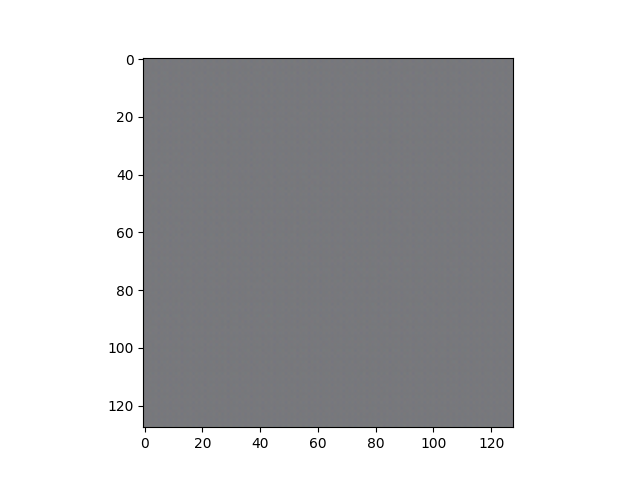
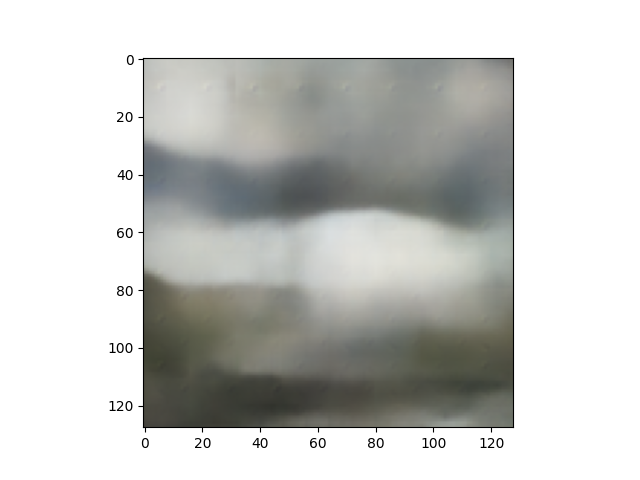
generated images, bad kl div

diff --git a/source/generate_images.py b/source/generate_images.py
@@ -30,27 +30,27 @@ plt.imshow(data[0][0].permute(1,2,0))
 plt.savefig(os.path.join(images_path,'input_image.png'))
 plt.close()
 
-output_image=model(data[0][0].unsqueeze(0),data[1][1].unsqueeze(0))[0]
-plt.imshow(output_image[0].permute(1,2,0).detach().numpy() )
+output_image=model(data[0][0].unsqueeze(0).to(device),data[1][1].unsqueeze(0).to(device))[0]
+plt.imshow(output_image[0].permute(1,2,0).detach().cpu().numpy() )
 plt.savefig(os.path.join(images_path,'reconstructed_image.png'))
 plt.close()
 
 generated_usa_1=model.generate('United States')
-plt.imshow(generated_usa_1[0].permute(1,2,0).detach().numpy() )
+plt.imshow(generated_usa_1[0].permute(1,2,0).detach().cpu().numpy() )
 plt.savefig(os.path.join(images_path,'usa_1.png'))
 plt.close()
 
 generated_usa_2=model.generate('United States')
-plt.imshow(generated_usa_2[0].permute(1,2,0).detach().numpy() )
+plt.imshow(generated_usa_2[0].permute(1,2,0).detach().cpu().numpy() )
 plt.savefig(os.path.join(images_path,'usa_2.png'))
 plt.close()
 
 generated_italy=model.generate('Italy')
-plt.imshow(generated_italy[0].permute(1,2,0).detach().numpy() )
+plt.imshow(generated_italy[0].permute(1,2,0).detach().cpu().numpy() )
 plt.savefig(os.path.join(images_path,'italy.png'))
 plt.close()
 
 generated_morocco=model.generate('Morocco')
-plt.imshow(generated_morocco[0].permute(1,2,0).detach().numpy() )
+plt.imshow(generated_morocco[0].permute(1,2,0).detach().cpu().numpy() )
 plt.savefig(os.path.join(images_path,'morocco.png'))
 plt.close()

diff --git a/source/functions/country_name_handling.py b/source/functions/country_name_handling.py
@@ -207,6 +207,7 @@ class CountryNameHandler:
 
         self.num_countries = len(country_names)
         self.countries_dict = {country: self._create_one_hot(idx) for idx, country in enumerate(country_names)}
+        self.device=torch.device("cuda" if torch.cuda.is_available() else "cpu")
 
 
     def _create_one_hot(self,index):
@@ -215,7 +216,8 @@ class CountryNameHandler:
         return encoding
 
     def one_hot_encode(self, country):
-        return self.countries_dict.get(country,None)
+        encoding=self.countries_dict.get(country,None)
+        return encoding.to(self.device)
 
     def get_country_name(self,iso_code):
         return self.iso_country_dict.get(iso_code, None)

diff --git a/source/functions/data_handling.py b/source/functions/data_handling.py
@@ -16,7 +16,7 @@ class CustomDataset(Dataset):
         return image,label
 
 def prepare_data(data_path,world_size, BATCH_SIZE,is_parallel):
-    data=torch.load(data_path)[:100]
+    data=torch.load(data_path)
     dataset=CustomDataset(data)
 
     batch_size_per_process=int(BATCH_SIZE/world_size)

diff --git a/README.md b/README.md
@@ -29,23 +29,29 @@ This repository contains the code for a Conditional Variational Auto Encoder gen
 
 ## How to reproduce the project
 
-### Create the environment
+At first, you should clone this repository
+
+### Requirements and environment
 
 The project was runned with Python 3.10.10
+
 In order to run all the code, is advisable to create a python virtual environment with `python -m venv -n <environment>` (otherwise you'll have to adjust the .sh files)
+
 
 In order to install the requirements you need to activate the environment and then run `pip install -r requirements.txt`
 
-## SLURM
+### SLURM
 
-The scripts `.sh` scripts are intended to run on the cluster ORFEO of Trieste's Are Science park, which uses the batch scheduler SLURM. If you're running on a different machine, you'll have to adapt them (for example by changing the partitions if you're still using SLURM but on a different cluster, or by taking away the lines starting by #SBATCH and using `bash` instead of `sbatch` if you're not running on SLURM)
+The scripts `.sh` scripts are intended to run on the cluster ORFEO of Trieste's Are Science park, which uses the batch scheduler SLURM. If you're running on a different machine, you'll have to adapt them (for example by changing the partition  names if you're still using SLURM but on a different cluster, or by deleting the lines starting by #SBATCH and using `bash` instead of `sbatch` if you're not running on SLURM)
 
 ### Download and pre process the dataset
 
 In order to download and pre process the dataset, run `bash create_dataset.sh <directory_where_you_want_the_dataset>`
 
-### Train the model
+### Train the model and generate images 
 
-In order to train the model and generate some images, you have to modify the file `train_and_generate.sh`: after `train.sh` put the directory where you have the dataset and the directory of 
+In order to train the model and generate some images, you have to run `bash train_and_generate <directory where you have downloaded the dataset>` 
 
- run `bash train_and ` 
+### Just train the model
+
+### Just generate images with trained model
